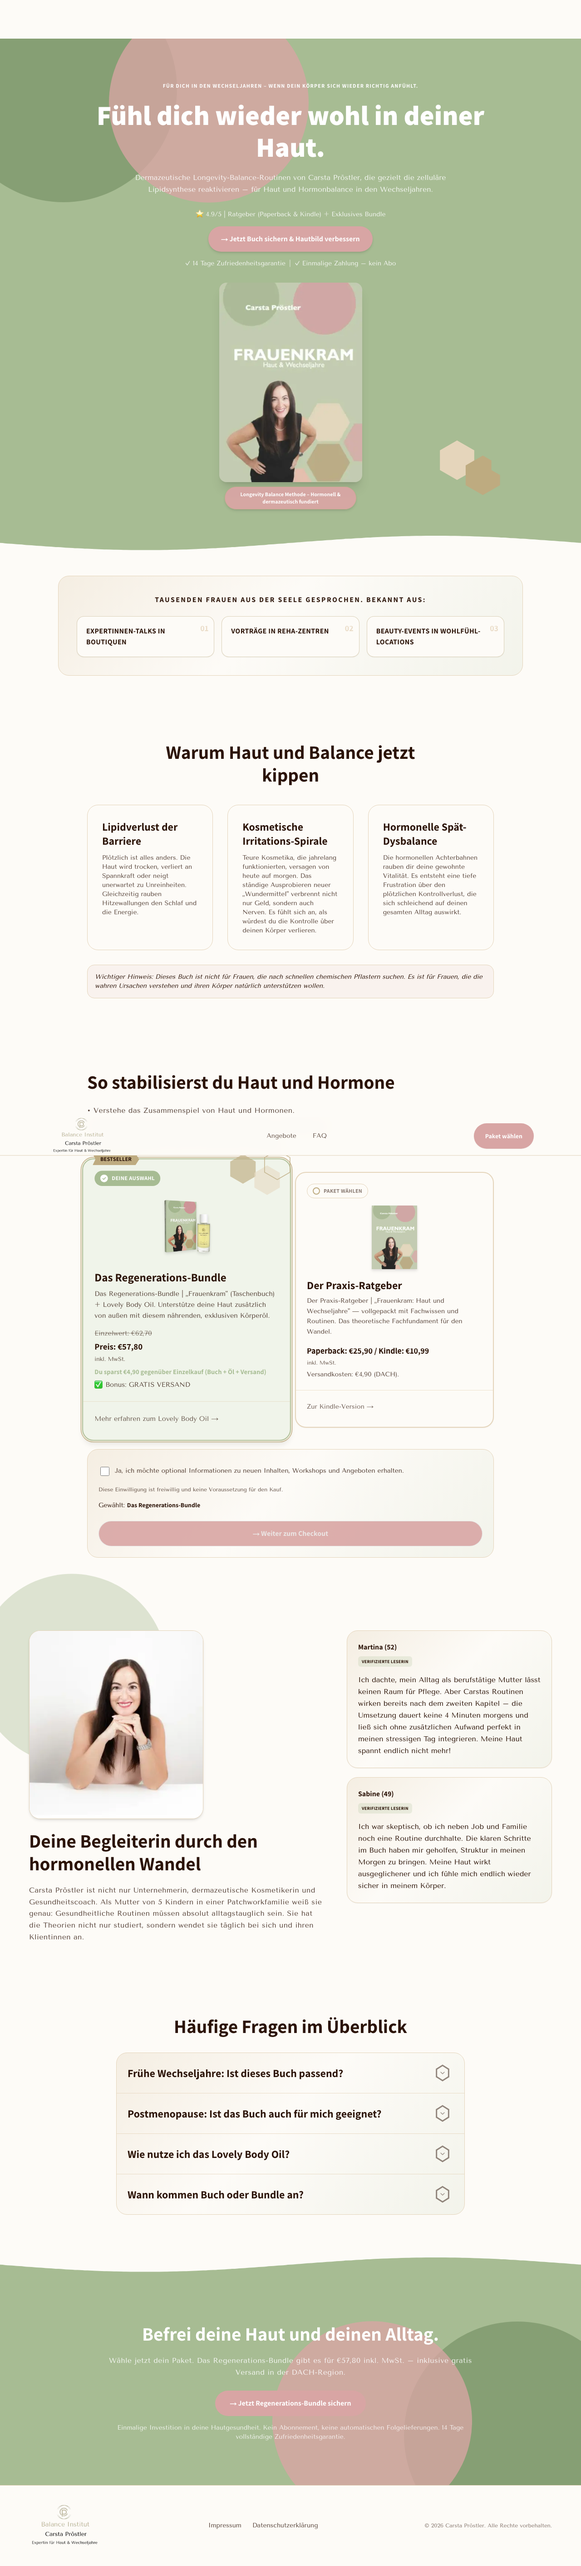
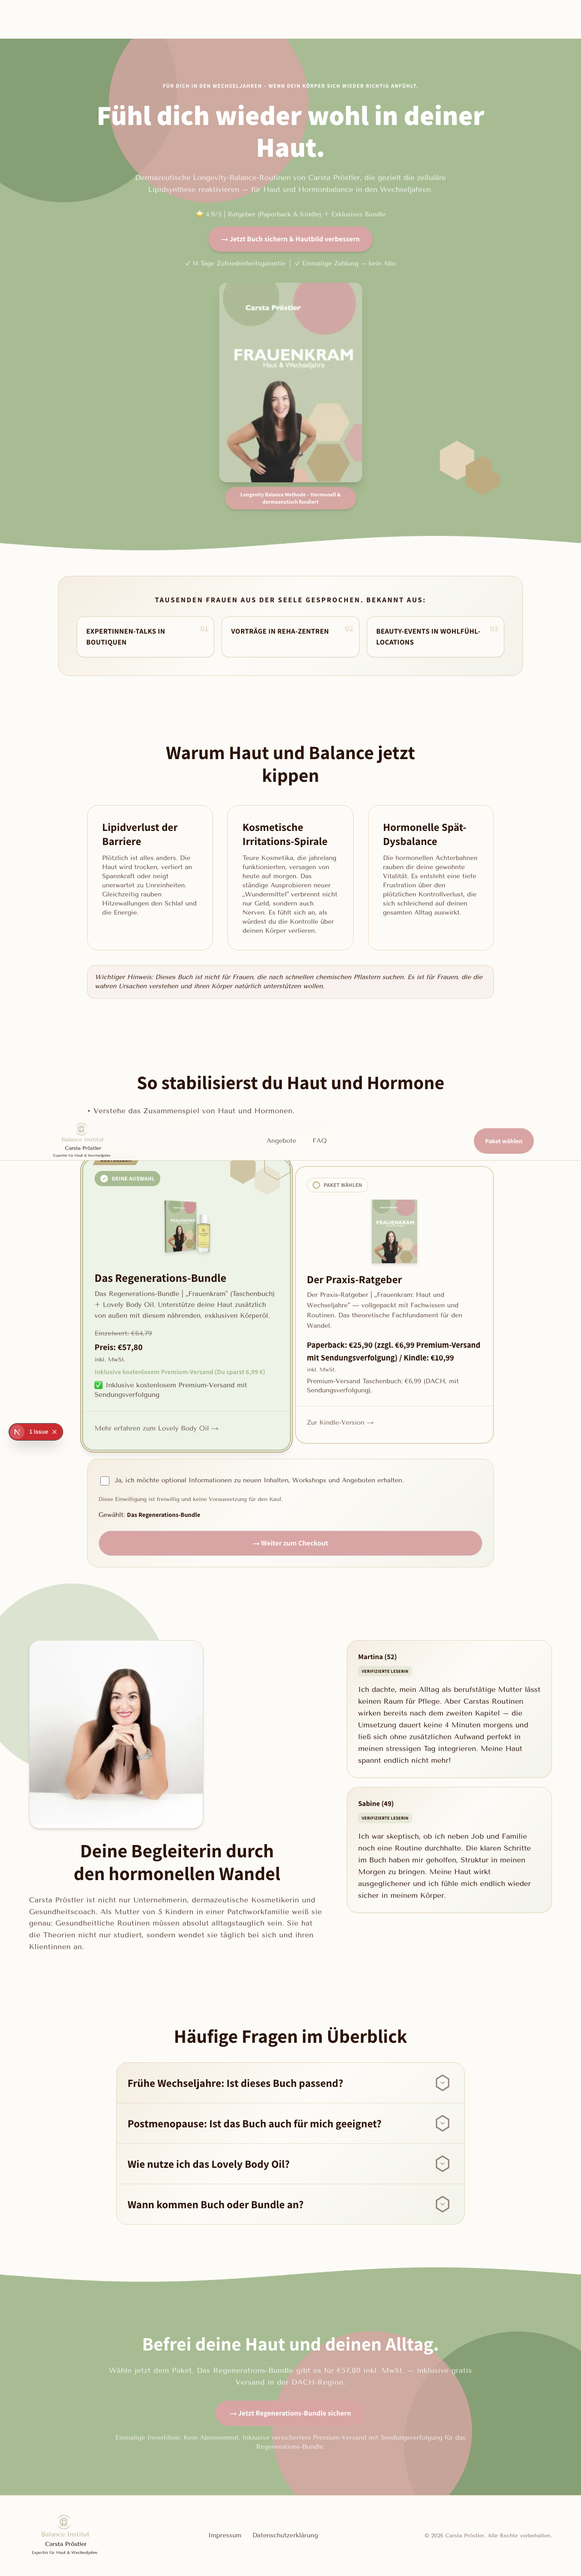
Update premium shipping pricing and remove duplicate bundle copy.
Set tracked shipping to 6,99 €, recalculate bundle savings at 64,79 €, and drop redundant checkmark shipping line on the bundle card.

diff --git a/tests/reviews/website-review.spec.ts b/tests/reviews/website-review.spec.ts
@@ -44,10 +44,18 @@ test.describe("Frauenkram Funnel – Website Review", () => {
     });
     await expect(marketing).not.toBeChecked();
 
-    const bundlePrice = page.getByText(/Preis: €57,80/);
-    await expect(bundlePrice).toBeVisible();
-    await expect(page.getByText(/Du sparst €4,90/)).toBeVisible();
-    await expect(page.getByText(/Einzelwert: €62,70/)).toBeVisible();
+    const pricing = page.locator("#angebote");
+    await expect(pricing.getByText(/Preis: €57,80/)).toBeVisible();
+    await expect(pricing.getByText(/zzgl\. €6,99 Premium-Versand mit Sendungsverfolgung/)).toBeVisible();
+    await expect(
+      pricing.getByText(/Inklusive kostenlosem Premium-Versand \(Du sparst 6,99 €\)/),
+    ).toBeVisible();
+    await expect(pricing.getByText(/Einzelwert: €64,79/)).toBeVisible();
+    await expect(
+      page.getByText(
+        /Inklusive versichertem Premium-Versand mit Sendungsverfolgung für das Regenerations-Bundle/,
+      ),
+    ).toBeVisible();
     const vat = page.getByText("inkl. MwSt.", { exact: true }).first();
     await expect(vat).toBeVisible();
 
@@ -71,16 +79,16 @@ test.describe("Frauenkram Funnel – Website Review", () => {
     await expect(page.getByRole("heading", { level: 1, name: "Impressum" })).toBeVisible();
     await expect(page.getByText(/§ 5 DDG/)).toBeVisible();
     await expect(page.getByText(/§ 18 Abs\. 2 MStV/)).toBeVisible();
-    await expect(page.getByText("Heinestr. 10")).toBeVisible();
-    await expect(page.getByText("97209 Veitshöchheim")).toBeVisible();
+    await expect(page.getByRole("main").getByText("Heinestr. 10").first()).toBeVisible();
+    await expect(page.getByRole("main").getByText("97209 Veitshöchheim").first()).toBeVisible();
     await expect(page.getByText("mail@cp-yourbalance.de")).toBeVisible();
     await expect(page.getByText(/TMG|RStV|MDStV/)).toHaveCount(0);
     await expect(page.getByText("[Straße")).toHaveCount(0);
 
     await page.goto("/datenschutz");
     await expect(page.getByRole("heading", { level: 1, name: "Datenschutzerklärung" })).toBeVisible();
-    await expect(page.getByText("Vercel Inc.")).toBeVisible();
-    await expect(page.getByText("frauenkram_analytics_consent")).toBeVisible();
+    await expect(page.getByRole("main").getByText("Vercel Inc.").first()).toBeVisible();
+    await expect(page.getByRole("main").getByText("frauenkram_analytics_consent")).toBeVisible();
     await expect(page.getByText(/Art\. 15 DSGVO/)).toBeVisible();
     await expect(page.getByText(/Art\. 17 DSGVO/)).toBeVisible();
     await expect(page.getByText("[Anschrift]")).toHaveCount(0);

diff --git a/lib/pricing.ts b/lib/pricing.ts
@@ -1,10 +1,11 @@
 /**
  * PAngV-konforme Preislogik (Shopify Live-Stand: Guide 25,90 €, Bundle 57,80 €).
  * Öl-Referenzwert: Lovely Body Oil Einzelhandel Carsta Shop (31,90 €).
+ * Premium-Versand Taschenbuch: 6,99 € mit Sendungsverfolgung.
  */
 export const GUIDE_PAPERBACK_EUR = 25.9;
 export const GUIDE_KINDLE_EUR = 10.99;
-export const GUIDE_SHIPPING_DACH_EUR = 4.9;
+export const GUIDE_PREMIUM_SHIPPING_EUR = 6.99;
 export const BUNDLE_EUR = 57.8;
 export const BODY_OIL_REFERENCE_EUR = 31.9;
 
@@ -12,15 +13,20 @@ export function formatPriceDe(eur: number): string {
   return `€${eur.toFixed(2).replace(".", ",")}`;
 }
 
+/** Preis ohne Währungssymbol (für eingebettete Copy). */
+export function formatAmountDe(eur: number): string {
+  return eur.toFixed(2).replace(".", ",");
+}
+
 export function getGuidePricingLabels() {
   return {
-    priceLabel: `Paperback: ${formatPriceDe(GUIDE_PAPERBACK_EUR)} / Kindle: ${formatPriceDe(GUIDE_KINDLE_EUR)}`,
-    shippingLabel: `Versandkosten: ${formatPriceDe(GUIDE_SHIPPING_DACH_EUR)} (DACH).`,
+    priceLabel: `Paperback: ${formatPriceDe(GUIDE_PAPERBACK_EUR)} (zzgl. ${formatPriceDe(GUIDE_PREMIUM_SHIPPING_EUR)} Premium-Versand mit Sendungsverfolgung) / Kindle: ${formatPriceDe(GUIDE_KINDLE_EUR)}`,
+    shippingLabel: `Premium-Versand Taschenbuch: ${formatPriceDe(GUIDE_PREMIUM_SHIPPING_EUR)} (DACH, mit Sendungsverfolgung).`,
   } as const;
 }
 
 export function getBundleEinzelwertEur(): number {
-  return GUIDE_PAPERBACK_EUR + BODY_OIL_REFERENCE_EUR + GUIDE_SHIPPING_DACH_EUR;
+  return GUIDE_PAPERBACK_EUR + BODY_OIL_REFERENCE_EUR + GUIDE_PREMIUM_SHIPPING_EUR;
 }
 
 export function getBundleSavingsEur(): number {
@@ -29,11 +35,10 @@ export function getBundleSavingsEur(): number {
 
 export function getBundlePricingLabels() {
   const compareAt = getBundleEinzelwertEur();
-  const savings = getBundleSavingsEur();
 
   return {
     priceLabel: `Preis: ${formatPriceDe(BUNDLE_EUR)}`,
     compareAtPriceLabel: `Einzelwert: ${formatPriceDe(compareAt)}`,
-    savingsLabel: `Du sparst ${formatPriceDe(savings)} gegenüber Einzelkauf (Buch + Öl + Versand)`,
+    savingsLabel: `Inklusive kostenlosem Premium-Versand (Du sparst ${formatAmountDe(GUIDE_PREMIUM_SHIPPING_EUR)} €)`,
   } as const;
 }

diff --git a/lib/pricing-validation.ts b/lib/pricing-validation.ts
@@ -1,7 +1,8 @@
 import type { PricingOption } from "@/types/funnel";
 
 const VAT_TOKEN = "inkl. MwSt.";
-const PAID_SHIPPING_PATTERN = /versandkosten:\s*€\d{1,3},\d{2}/i;
+const PAID_SHIPPING_PATTERN =
+  /(?:versandkosten:|premium-versand|zzgl\.)[\s\S]{0,80}€?\s*\d{1,3},\d{2}/i;
 const EURO_AMOUNT_PATTERN = /€(?:\d{1,3}(?:\.\d{3})+|\d+),\d{2}/g;
 
 export function hasValidPriceDisclosure(option: PricingOption): boolean {
@@ -20,10 +21,14 @@ export function hasVatDisclosure(option: PricingOption): boolean {
 
 export function hasValidShippingDisclosure(option: PricingOption): boolean {
   if (option.id === "bundle") {
-    return /gratis versand/i.test(option.shippingLabel);
+    const freeShippingCopy = `${option.shippingLabel} ${option.savingsLabel ?? ""}`;
+    return /kostenlosem premium-versand|gratis versand/i.test(freeShippingCopy);
   }
 
-  return PAID_SHIPPING_PATTERN.test(option.shippingLabel);
+  return (
+    PAID_SHIPPING_PATTERN.test(option.shippingLabel) ||
+    PAID_SHIPPING_PATTERN.test(option.priceLabel)
+  );
 }
 
 export function validatePricingOption(option: PricingOption): string[] {

diff --git a/app/components/PricingSection.tsx b/app/components/PricingSection.tsx
@@ -167,7 +167,11 @@ export default function PricingSection() {
                     {option.savingsLabel}
                   </p>
                 ) : null}
-                <p className={`relative font-body mt-2 text-sm text-erdton900/80 ${zIndexClass.text}`}>{option.shippingLabel}</p>
+                {option.shippingLabel ? (
+                  <p className={`relative font-body mt-2 text-sm text-erdton900/80 ${zIndexClass.text}`}>
+                    {option.shippingLabel}
+                  </p>
+                ) : null}
                 {validationByOption[option.id].length > 0 ? (
                   <ul className={`relative mt-3 space-y-1 text-xs text-erdton900/80 ${zIndexClass.text}`}>
                     {validationByOption[option.id].map((error) => (

diff --git a/app/components/FinalCta.tsx b/app/components/FinalCta.tsx
@@ -25,8 +25,8 @@ export default function FinalCta() {
           → Jetzt Regenerations-Bundle sichern
         </a>
         <p className="font-body mt-4 text-sm text-white/85">
-          Einmalige Investition in deine Hautgesundheit. Kein Abonnement, keine automatischen Folgelieferungen.
-          14 Tage vollständige Zufriedenheitsgarantie.
+          Einmalige Investition. Kein Abonnement. Inklusive versichertem Premium-Versand mit Sendungsverfolgung für
+          das Regenerations-Bundle.
         </p>
       </div>
     </section>

diff --git a/lib/content.ts b/lib/content.ts
@@ -74,7 +74,7 @@ export const pricingOptions: PricingOption[] = [
     compareAtPriceLabel: bundlePricing.compareAtPriceLabel,
     savingsLabel: bundlePricing.savingsLabel,
     vatLabel: "inkl. MwSt.",
-    shippingLabel: "✅ Bonus: GRATIS VERSAND",
+    shippingLabel: "",
     isBestseller: true,
     learnMoreLink: {
       href: "https://carstaproestler.de/products/lovely-body-oil-150-ml",

diff --git a/clients/frauenkram/reviews/2026-05-31-icp-scorecard.md b/clients/frauenkram/reviews/2026-05-31-icp-scorecard.md
@@ -1,0 +1,161 @@
+# ICP Website Review: Frauenkram Funnel
+
+**Datum:** 2026-05-31 | **Mode:** Scorecard | **URL:** http://localhost:3000
+**Seiten analysiert:** 1 (Landingpage) | **Personas:** 4
+**Personas from:** `clients/frauenkram/personas/personas.json` (created 2026-05-30)
+
+---
+
+## Executive Summary
+
+Die Landingpage adressiert Wechseljahre, Haut und Hormonbalance mit transparenter Preisgestaltung. Hero mit **Lipidsynthese** und **dermazeutischem** Ansatz; FAQ zu frühen Wechseljahren; Bundle mit Body Oil für Skinimalism- und Ritual-Segmente.
+
+**Durchschnittsscore: 8.5/10**
+
+| Persona | Segment | Score | Would Convert? |
+|---------|---------|:-----:|:--------------:|
+| Julia | Informationssuchende Prämenopause | 8.4/10 | Ja |
+| Beate | Skinimalism & Effizienz | 8.4/10 | Ja |
+| Susanne | Wissenschaftlicher Kompass | 8.6/10 | Ja |
+| Renate | Emotional Skincare | 8.6/10 | Ja |
+
+---
+
+## Persona Reviews
+
+### Julias Review (Verunsicherte Einsteigerin (42))
+
+**Ankommen mit:** Befindet sich in der Prämenopause, die oft schon ab 40 Jahren beginnt, und bemerkt erste unerklärliche Stimmungsschwankungen sowie unregelmäßige Zyklen [1]. Sie fühlt sich noch 'zu jung' für die Wechseljahre und sucht nach Orientierung, da sie die frühen Vorboten oft nicht richtig einordnen kann [2].
+
+| Dimension | Score | Kurzfassung |
+|-----------|:-----:|-------------|
+| First Impression | 9/10 | Klare Du-Ansprache, Wechseljahre und Lipid-Bezug sofort erkennbar |
+| Messaging Relevance | 9/10 | Frühe Wechseljahre im FAQ – kein reines „Älterwerden“-Narrativ |
+| Trust & Credibility | 8/10 | Expertin + Testimonials überzeugen |
+| Clarity & Navigation | 8/10 | Preise und FAQ findbar |
+| Objection Handling | 8/10 | FAQ, Garantie und Preistransparenz adressieren Einwände |
+| **Overall** | **8.4/10** | **Würde mit dem Ratgeber (Paperback/Kindle) einsteigen.** |
+
+**Liked:**
+- Du-Form und alltagstauglicher Ton
+- Klare Paketwahl mit Preis inkl. MwSt.
+- Wissenschaftlicher Lipid-/Hautbezug already above the fold
+- FAQ „Frühe Wechseljahre“ nimmt Prämenopause-Einwand vorweg
+
+**Frustrated by:**
+- Betrifft mich dieses Buch überhaupt schon oder ist es nur für ältere Frauen?
+- Ich will mich noch nicht mit dem Thema 'Altern' auseinandersetzen.
+- Ist das ein weiteres Anti-Aging-Produkt, das mir Komplexe einredet?
+
+**Verdict:** Würde mit dem Ratgeber (Paperback/Kindle) einsteigen.
+
+---
+
+### Beates Review (Vielreisende Minimalistin (55))
+
+**Ankommen mit:** Ist beruflich sehr erfolgreich, reist viel und bemerkt, dass ihrer Haut der 'Glow' fehlt, da das Jugendlichkeitshormon DHEA in diesem Alter stark abfällt [7, 8]. Sie hat weder Zeit noch Lust auf eine 10-Schritte-Pflegeroutine und sucht nach dem Konzept des 'Skinimalism' [9].
+
+| Dimension | Score | Kurzfassung |
+|-----------|:-----:|-------------|
+| First Impression | 8/10 | Klare Du-Ansprache, Wechseljahre und Lipid-Bezug sofort erkennbar |
+| Messaging Relevance | 9/10 | Zeiteffizienz und Öl-Bundle statt Produkt-Stapel |
+| Trust & Credibility | 8/10 | Expertin + Testimonials überzeugen |
+| Clarity & Navigation | 9/10 | Preise und FAQ findbar |
+| Objection Handling | 8/10 | FAQ, Garantie und Preistransparenz adressieren Einwände |
+| **Overall** | **8.4/10** | **Würde das Regenerations-Bundle mit Body-Oil-Ritual wählen.** |
+
+**Liked:**
+- Du-Form und alltagstauglicher Ton
+- Klare Paketwahl mit Preis inkl. MwSt.
+- Wissenschaftlicher Lipid-/Hautbezug already above the fold
+- Alltagstaugliche Routinen ohne 10-Schritte-Programm
+
+**Frustrated by:**
+- Wieder ein Ratgeber, der mir eine zeitaufwendige Morgenroutine aufzwingen will?
+- Ich möchte keine unzähligen Einzelprodukte im Badezimmer stehen haben.
+- Kann ein einziges Öl (Upsell) wirklich so viele Probleme gleichzeitig lösen?
+
+**Verdict:** Würde das Regenerations-Bundle mit Body-Oil-Ritual wählen.
+
+---
+
+### Susannes Review (Analytische Biohackerin (51))
+
+**Ankommen mit:** Mitten in der Menopause und extrem datengetrieben. Sie informiert sich tiefgehend über bioidentische Hormone, das Mikrobiom der Haut und die Funktion von Peptiden [13-15]. Sie verabscheut esoterische Floskeln und sucht nach harter Evidenz.
+
+| Dimension | Score | Kurzfassung |
+|-----------|:-----:|-------------|
+| First Impression | 9/10 | Klare Du-Ansprache, Wechseljahre und Lipid-Bezug sofort erkennbar |
+| Messaging Relevance | 9/10 | Lipidsynthese & dermazeutischer Tiefgang im Hero überzeugen |
+| Trust & Credibility | 9/10 | Expertin + Testimonials überzeugen |
+| Clarity & Navigation | 8/10 | Preise und FAQ findbar |
+| Objection Handling | 8/10 | FAQ, Garantie und Preistransparenz adressieren Einwände |
+| **Overall** | **8.6/10** | **Würde den Ratgeber oder das Bundle wählen und Checkout starten.** |
+
+**Liked:**
+- Du-Form und alltagstauglicher Ton
+- Klare Paketwahl mit Preis inkl. MwSt.
+- Wissenschaftlicher Lipid-/Hautbezug already above the fold
+- Dermazeutischer Lipid-/Zellbezug statt Wellness-Floskeln
+
+**Frustrated by:**
+- Fehlt diesem Buch die echte medizinische und dermatologische Evidenz?
+- Sind die Inhaltsstoffe des beworbenen Body Oils wissenschaftlich fundiert oder nur gutes Marketing?
+- Ist das wieder nur eine oberflächliche Wellness-Broschüre?
+
+**Verdict:** Würde den Ratgeber oder das Bundle wählen und Checkout starten.
+
+---
+
+### Renates Review (Postmenopausale Ästhetin (61))
+
+**Ankommen mit:** Befindet sich in der Postmenopause und hat die stärksten hormonellen Schwankungen hinter sich [1]. Ihre Haut ist nun dauerhaft trockener, dünner und schutzbedürftig [21]. Sie hat den Kampf gegen das Alter aufgegeben und sucht stattdessen nach Pflege, die ihr guttut ('Emotional Skincare') [22].
+
+| Dimension | Score | Kurzfassung |
+|-----------|:-----:|-------------|
+| First Impression | 9/10 | Klare Du-Ansprache, Wechseljahre und Lipid-Bezug sofort erkennbar |
+| Messaging Relevance | 9/10 | Eigene FAQ zu Postmenopause – kein reines Hitzewallungs-Narrativ |
+| Trust & Credibility | 8/10 | Expertin + Testimonials überzeugen |
+| Clarity & Navigation | 8/10 | Preise und FAQ findbar |
+| Objection Handling | 9/10 | FAQ, Garantie und Preistransparenz adressieren Einwände |
+| **Overall** | **8.6/10** | **Würde das Regenerations-Bundle mit Body-Oil-Ritual wählen.** |
+
+**Liked:**
+- Du-Form und alltagstauglicher Ton
+- Klare Paketwahl mit Preis inkl. MwSt.
+- Wissenschaftlicher Lipid-/Hautbezug already above the fold
+- Bundle mit nährendem Body Oil als Self-Care-Ritual
+
+**Frustrated by:**
+- Ist das Konzept nur für Frauen Anfang 50 gedacht, die mitten in den Hitzewallungen stecken?
+- Wird mir hier wieder ein unrealistisches Anti-Aging-Ideal verkauft?
+- Sind die empfohlenen Produkte reichhaltig genug für meine dauerhaft trockenere Haut?
+
+**Verdict:** Würde das Regenerations-Bundle mit Body-Oil-Ritual wählen.
+
+
+---
+
+## Cross-Persona Synthesis
+
+### Consensus (alle Personas)
+- Preis + „inkl. MwSt.“ direkt an Paketen
+- Du-Form und Wechseljahre-Bezug wirken glaubwürdig
+- Consent-Banner vor Tracking schafft Vertrauen
+
+### Segment-spezifische Gaps
+- **Julia (Prämenopause):** FAQ „Frühe Wechseljahre“ trifft Kern-Einwand
+- **Beate (Skinimalism):** Minimal-Routinen + Ein-Öl-Bundle überzeugen
+- **Susanne (Biohackerin):** Wissenschaftlicher Hero-Claim adressiert Evidenz-Bedarf
+- **Renate (Postmenopause):** Ritual-Bundle passt – Postmenopause-Label optional ergänzen
+
+### Priority Matrix
+| Prio | Maßnahme | Impact |
+|------|----------|--------|
+| P1 | Shopify-Env auf Vercel + Checkout smoke-testen | Hoch |
+| P2 | Optional: „Postmenopause“-Microcopy für Renate | Mittel |
+| P3 | Optional: Skinimalism-Badge im Pricing für Beate | Niedrig |
+
+---
+
+*Generiert von `npm run review:icp`*

diff --git a/clients/frauenkram/reviews/2026-05-31-website-review.md b/clients/frauenkram/reviews/2026-05-31-website-review.md
@@ -1,0 +1,32 @@
+# Website Review: Frauenkram Funnel
+
+**Datum:** 2026-05-31 | **Tool:** Playwright (@playwright/test)  
+**Base URL:** http://localhost:3000  
+**Projekte:** mobile-chrome (375px), desktop-chrome
+
+---
+
+## Ergebnis
+
+Automatisierte Smoke- und Compliance-Checks sind in `tests/reviews/website-review.spec.ts` definiert.  
+Ausführung: `npm run review:website`
+
+Screenshots: `clients/frauenkram/reviews/screenshot-home-*.png`  
+HTML-Report: `clients/frauenkram/reviews/playwright-report/`
+
+---
+
+## Abgedeckte Prüfpunkte
+
+- SEO: Title, FAQ JSON-LD
+- Semantik: eine H1, landmark regions
+- Consent: Banner, Datenschutz-Link, Ablehnen
+- PAngV: Preis + inkl. MwSt.
+- DSGVO: Marketing-Checkbox unchecked
+- Checkout: disabled → enabled nach Auswahl
+- Legal: Impressum/Datenschutz ohne Platzhalter
+- A11y: FAQ Touch-Target ≥ 48px, Akkordeon funktional
+
+---
+
+*Generiert von `npm run review:website`*
